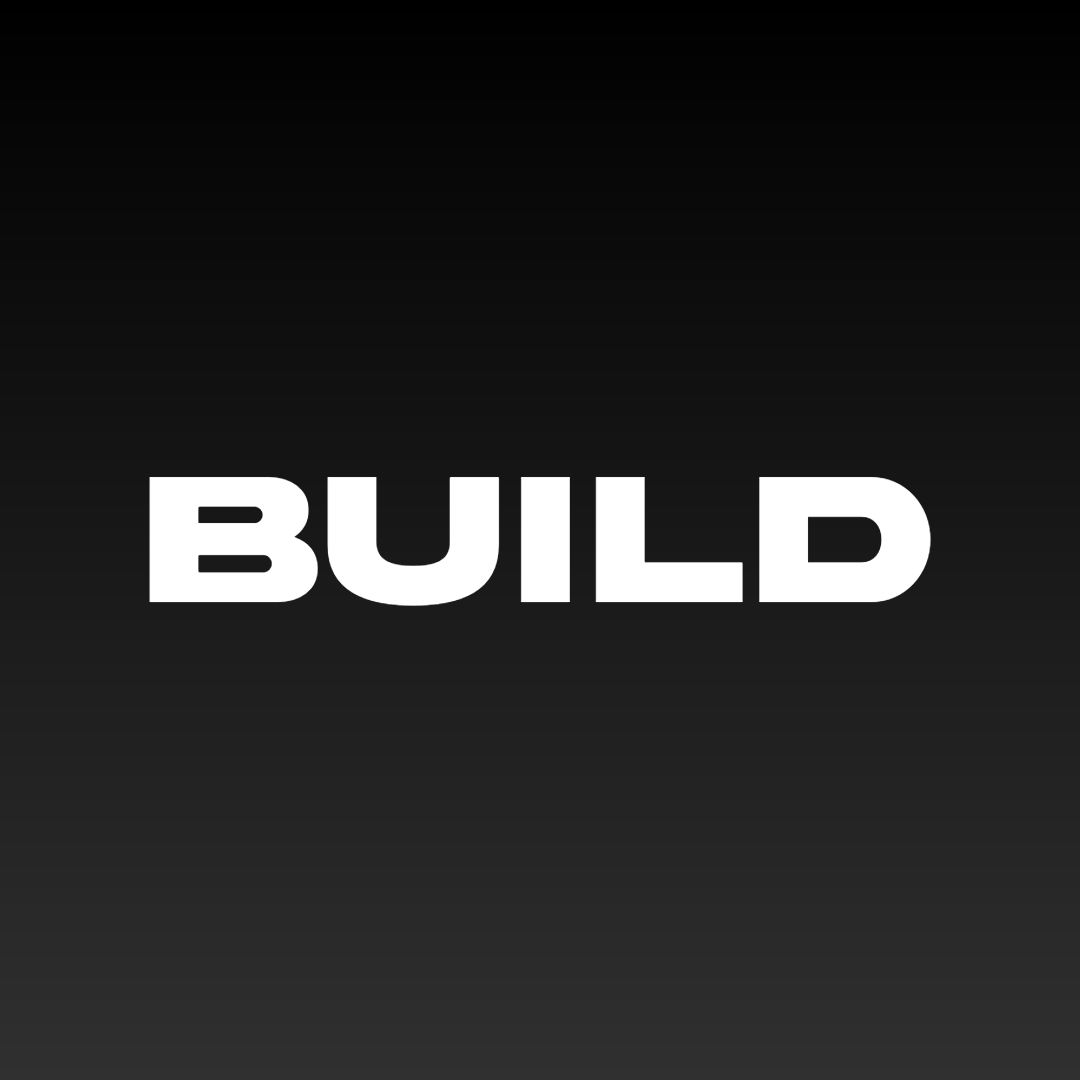
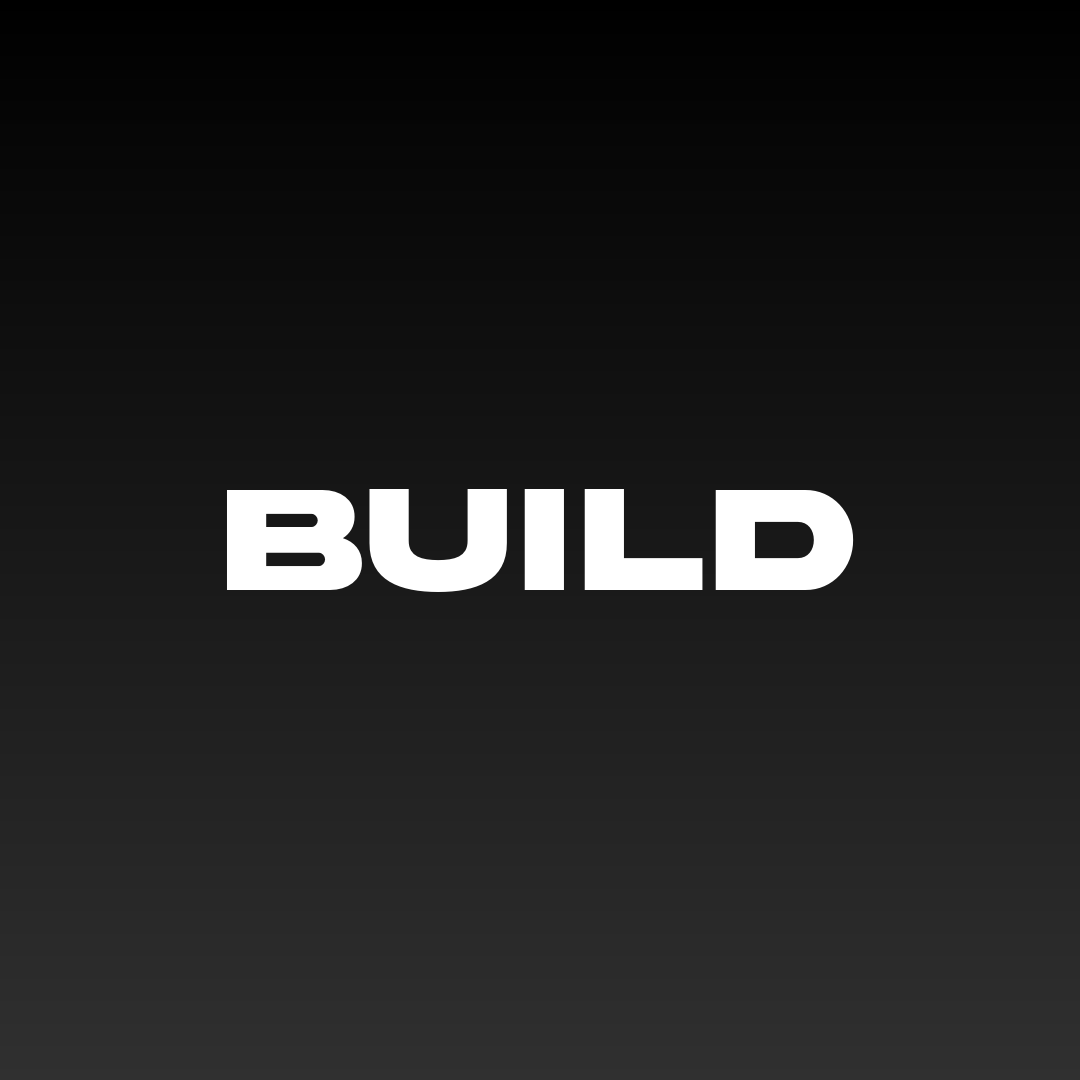
fix: remove unstable native libs and fix splash screen race condition

Changed region(s): [[0.1222, 0.4278, 0.8861, 0.5806]]

diff --git a/mobile/src/app/_layout.tsx b/mobile/src/app/_layout.tsx
@@ -1,19 +1,25 @@
 import { Slot } from 'expo-router';
-import { View, StatusBar, ActivityIndicator } from 'react-native';
+import { View, StatusBar } from 'react-native';
 import { useFonts } from 'expo-font';
+import * as SplashScreen from 'expo-splash-screen';
+import { useEffect } from 'react';
 import '../global.css';
+
+SplashScreen.preventAutoHideAsync();
 
 export default function RootLayout() {
   const [fontsLoaded] = useFonts({
     'Akira-Expanded': require('../../assets/fonts/Akira-Expanded.otf'),
   });
 
+  useEffect(() => {
+    if (fontsLoaded) {
+      SplashScreen.hideAsync();
+    }
+  }, [fontsLoaded]);
+
   if (!fontsLoaded) {
-    return (
-      <View style={{ flex: 1, backgroundColor: '#0a0a0a', justifyContent: 'center', alignItems: 'center' }}>
-        <ActivityIndicator size="large" color="#98FB98" />
-      </View>
-    );
+    return null;
   }
 
   return (